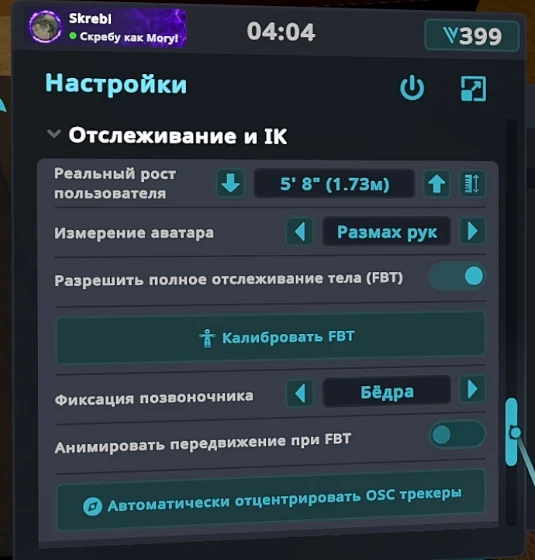
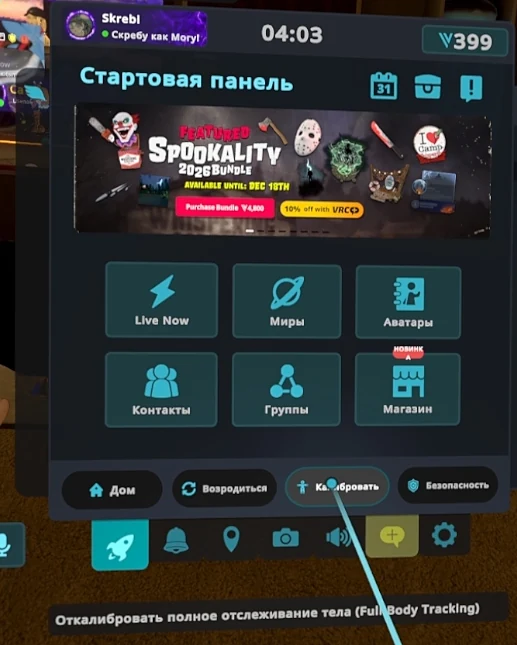
VRChat step: start FBT calibration from the Launch Pad Calibrate button
Claude-Session: https://claude.ai/code/session_01KnBYEkpMzSDj8BN21LnWwG

diff --git a/docs/Slime-VR-setup/index.html b/docs/Slime-VR-setup/index.html
@@ -17,7 +17,7 @@
 <meta name="guide-stats-api" content="https://slimevr-guide-stats.zombatii63.workers.dev">
 <meta name="guide-turnstile-sitekey" content="0x4AAAAAAGBGNd4fstNTYg4G">
 <script>(function(){var K="slimevr-guide-lang";document.addEventListener("click",function(e){var a=e.target.closest&&e.target.closest("[data-setlang]");if(a){try{localStorage.setItem(K,a.getAttribute("data-setlang"));}catch(x){}}});var c=null;try{c=localStorage.getItem(K);}catch(x){}if(c)return;var first=((navigator.languages&&navigator.languages[0])||navigator.language||"").toLowerCase();var want=/^(ru|be|kk)(-|$)/.test(first)?"ru":"en";if(want!=="ru")location.replace("en/"+location.hash);})();</script>
-<script>window.GUIDE_VERSION="83d1faf6ba";(function(){try{fetch("version.json?t="+Date.now(),{cache:"no-store"}).then(function(r){return r.json();}).then(function(j){if(!j||!j.v||j.v===window.GUIDE_VERSION)return;var k="guide-reloaded-"+j.v;try{if(sessionStorage.getItem(k))return;sessionStorage.setItem(k,"1");}catch(e){}fetch(location.pathname,{cache:"reload"}).then(function(){location.reload();},function(){location.reload();});})["catch"](function(){});}catch(e){}})();</script>
+<script>window.GUIDE_VERSION="ff496f2afe";(function(){try{fetch("version.json?t="+Date.now(),{cache:"no-store"}).then(function(r){return r.json();}).then(function(j){if(!j||!j.v||j.v===window.GUIDE_VERSION)return;var k="guide-reloaded-"+j.v;try{if(sessionStorage.getItem(k))return;sessionStorage.setItem(k,"1");}catch(e){}fetch(location.pathname,{cache:"reload"}).then(function(){location.reload();},function(){location.reload();});})["catch"](function(){});}catch(e){}})();</script>
 </head>
 <body>
 <div class="readbar" aria-hidden="true"><span id="readbar"></span></div>
@@ -604,7 +604,7 @@
     <li><span>Не выключая SlimeVR, зайдите в <strong>VRChat</strong>.</span></li>
     <li><span>Откройте большое меню настроек, раздел <strong>«Отслеживание и IK»</strong> (Tracking &amp; IK). Встаньте ровно, смотрите прямо и нажмите кнопку измерения роста: крайнюю справа в строке <strong>«Реальный рост пользователя»</strong> (User Real Height).</span></li>
     <li><span>Там же выключите <strong>«Использовать старую версию IK»</strong> (Use Legacy IK Solving). Ниже, в блоке <strong>«Калибровка и отладка»</strong> (Calibration &amp; Debug), выключите <strong>«Старый метод калибровки»</strong> (Legacy Calibration) и поставьте <strong>«Расстояние калибровки»</strong> (Calibration Range) на <strong>0,20 м</strong>. IK — расчёт положения суставов аватара.</span></li>
-    <li><span>Откройте быстрое меню, нажмите шестерёнку и затем <strong>«Калибровать FBT»</strong> (Calibrate FBT). Встаньте как аватар, смотрите прямо и подтвердите обоими курками на контроллерах.</span></li>
+    <li><span>Откройте быстрое меню и на стартовой панели нажмите <strong>«Калибровать»</strong> (Calibrate) внизу. Встаньте как аватар, смотрите прямо и подтвердите обоими курками на контроллерах.</span></li>
   </ol>
   <div class="reference-block" id="vrchat-screens">
     <h3>Где это в VRChat</h3>
@@ -612,10 +612,10 @@
     <div class="reference-grid vrchat-examples">
       <figure class="reference-shot" data-zoom="Рост и старая версия IK"><img src="img/ru/vrc-height.webp" alt="Меню VRChat «Отслеживание и IK»: строка «Реальный рост пользователя» и переключатель «Использовать старую версию IK»" width="780" height="613" loading="lazy"><figcaption><strong>Рост и старая версия IK.</strong> Кнопка измерения роста — крайняя справа в строке роста. Переключатель старой версии IK — третья строка.</figcaption></figure>
       <figure class="reference-shot" data-zoom="Калибровка и отладка"><img src="img/ru/vrc-calibration.webp" alt="Блок «Калибровка и отладка»: «Старый метод калибровки» и «Расстояние калибровки»" width="757" height="593" loading="lazy"><figcaption><strong>Калибровка и отладка.</strong> «Старый метод калибровки» — первая строка, «Расстояние калибровки» — ползунок ниже.</figcaption></figure>
-      <figure class="reference-shot" data-zoom="Кнопка «Калибровать FBT»"><img src="img/ru/vrc-quick-fbt.webp" alt="Быстрое меню VRChat, вкладка настроек с кнопкой «Калибровать FBT»" width="535" height="560" loading="lazy"><figcaption><strong>Быстрое меню.</strong> Шестерёнка внизу, затем кнопка «Калибровать FBT».</figcaption></figure>
+      <figure class="reference-shot" data-zoom="Кнопка «Калибровать»"><img src="img/ru/vrc-quick-fbt.webp" alt="Стартовая панель быстрого меню VRChat, наведение на кнопку «Калибровать»" width="517" height="645" loading="lazy"><figcaption><strong>Быстрое меню.</strong> Кнопка «Калибровать» внизу стартовой панели запускает калибровку всего тела.</figcaption></figure>
       <figure class="reference-shot" data-zoom="Поза при калибровке"><img src="img/vrc-tpose.webp" alt="Аватар в позе калибровки, трекеры показаны цветными кругами" width="840" height="745" loading="lazy"><figcaption><strong>Поза при калибровке.</strong> Совместите своё тело с аватаром и нажмите оба курка.</figcaption></figure>
     </div>
-    <p class="source-note">Снимки сделаны автором гайда в VRChat (ноябрь 2026). Кнопка «Calibrate FBT» описана в <a href="https://docs.vrchat.com/docs/full-body-tracking#using-full-body-tracking-in-vrchat">документации VRChat</a>.</p>
+    <p class="source-note">Снимки сделаны автором гайда в VRChat (ноябрь 2026). Калибровка всего тела описана в <a href="https://docs.vrchat.com/docs/full-body-tracking#using-full-body-tracking-in-vrchat">документации VRChat</a>.</p>
   </div>
   <div class="ok"><b>Готово</b><p>Трекеры откалиброваны и настроены. Калибровку по осям и температурную больше делать не нужно. Перед каждой игрой выполняйте короткий порядок ниже.</p></div>
   <div class="step-finish"><div><b>Проверьте результат</b><p>После подтверждения аватар повторяет движения корпуса и ног.</p></div><button type="button" class="done-toggle" data-done="s10" aria-pressed="false"><span class="dt-box" aria-hidden="true"></span><span class="dt-label">Шаг выполнен</span></button></div>

diff --git a/docs/Slime-VR-setup/en/index.html b/docs/Slime-VR-setup/en/index.html
@@ -17,7 +17,7 @@
 <meta name="guide-stats-api" content="https://slimevr-guide-stats.zombatii63.workers.dev">
 <meta name="guide-turnstile-sitekey" content="0x4AAAAAAGBGNd4fstNTYg4G">
 <script>(function(){var K="slimevr-guide-lang";document.addEventListener("click",function(e){var a=e.target.closest&&e.target.closest("[data-setlang]");if(a){try{localStorage.setItem(K,a.getAttribute("data-setlang"));}catch(x){}}});var c=null;try{c=localStorage.getItem(K);}catch(x){}if(c)return;var first=((navigator.languages&&navigator.languages[0])||navigator.language||"").toLowerCase();var want=/^(ru|be|kk)(-|$)/.test(first)?"ru":"en";if(want!=="en")location.replace("../"+location.hash);})();</script>
-<script>window.GUIDE_VERSION="83d1faf6ba";(function(){try{fetch("../version.json?t="+Date.now(),{cache:"no-store"}).then(function(r){return r.json();}).then(function(j){if(!j||!j.v||j.v===window.GUIDE_VERSION)return;var k="guide-reloaded-"+j.v;try{if(sessionStorage.getItem(k))return;sessionStorage.setItem(k,"1");}catch(e){}fetch(location.pathname,{cache:"reload"}).then(function(){location.reload();},function(){location.reload();});})["catch"](function(){});}catch(e){}})();</script>
+<script>window.GUIDE_VERSION="ff496f2afe";(function(){try{fetch("../version.json?t="+Date.now(),{cache:"no-store"}).then(function(r){return r.json();}).then(function(j){if(!j||!j.v||j.v===window.GUIDE_VERSION)return;var k="guide-reloaded-"+j.v;try{if(sessionStorage.getItem(k))return;sessionStorage.setItem(k,"1");}catch(e){}fetch(location.pathname,{cache:"reload"}).then(function(){location.reload();},function(){location.reload();});})["catch"](function(){});}catch(e){}})();</script>
 </head>
 <body>
 <div class="readbar" aria-hidden="true"><span id="readbar"></span></div>
@@ -603,7 +603,7 @@
     <li><span>Keep SlimeVR running and launch <strong>VRChat</strong>.</span></li>
     <li><span>Open the main settings menu, <strong>“Tracking &amp; IK”</strong>. Stand straight, look ahead and press the height measurement button: the rightmost one in the <strong>“User Real Height”</strong> row.</span></li>
     <li><span>On the same page turn off <strong>“Use Legacy IK Solving”</strong>. Further down, under <strong>“Calibration &amp; Debug”</strong>, turn off <strong>“Legacy Calibration”</strong> and set <strong>“Calibration Range”</strong> to <strong>0.20 m</strong>. IK means calculating where the avatar's joints are.</span></li>
-    <li><span>Open the quick menu, press the gear icon and then <strong>“Calibrate FBT”</strong> (full-body calibration). Stand like the avatar, look ahead and confirm with both triggers on the controllers.</span></li>
+    <li><span>Open the quick menu and on the Launch Pad press <strong>“Calibrate”</strong> at the bottom (full-body calibration). Stand like the avatar, look ahead and confirm with both triggers on the controllers.</span></li>
   </ol>
   <div class="reference-block" id="vrchat-screens">
     <h3>Where to find it in VRChat</h3>
@@ -611,10 +611,10 @@
     <div class="reference-grid vrchat-examples">
       <figure class="reference-shot" data-zoom="Height and legacy IK"><img src="../img/vrc-height.webp" alt="VRChat Tracking &amp; IK menu: User Real Height row and Use Legacy IK Solving switch" width="774" height="593" loading="lazy"><figcaption><strong>Height and legacy IK.</strong> The height measurement button is the rightmost one in the height row. The legacy IK switch is the third row.</figcaption></figure>
       <figure class="reference-shot" data-zoom="Calibration &amp; Debug"><img src="../img/vrc-calibration.webp" alt="Calibration &amp; Debug block: Legacy Calibration and Calibration Range" width="738" height="572" loading="lazy"><figcaption><strong>Calibration &amp; Debug.</strong> “Legacy Calibration” is the first row, “Calibration Range” is the slider below.</figcaption></figure>
-      <figure class="reference-shot" data-zoom="The Calibrate FBT button"><img src="../img/vrc-quick-fbt.webp" alt="VRChat quick menu settings tab with the Calibrate FBT button" width="492" height="523" loading="lazy"><figcaption><strong>Quick menu.</strong> The gear icon at the bottom, then “Calibrate FBT”.</figcaption></figure>
+      <figure class="reference-shot" data-zoom="The Calibrate button"><img src="../img/vrc-quick-fbt.webp" alt="VRChat quick menu Launch Pad with the pointer on the Calibrate button" width="550" height="675" loading="lazy"><figcaption><strong>Quick menu.</strong> The “Calibrate” button at the bottom of the Launch Pad starts full-body calibration.</figcaption></figure>
       <figure class="reference-shot" data-zoom="Calibration pose"><img src="../img/vrc-tpose.webp" alt="Avatar in the calibration pose, trackers shown as coloured circles" width="840" height="745" loading="lazy"><figcaption><strong>Calibration pose.</strong> Line your body up with the avatar and press both triggers.</figcaption></figure>
     </div>
-    <p class="source-note">Screenshots taken by the guide author in VRChat (November 2026). The “Calibrate FBT” button is described in the <a href="https://docs.vrchat.com/docs/full-body-tracking#using-full-body-tracking-in-vrchat">VRChat documentation</a>.</p>
+    <p class="source-note">Screenshots taken by the guide author in VRChat (November 2026). Full-body calibration is described in the <a href="https://docs.vrchat.com/docs/full-body-tracking#using-full-body-tracking-in-vrchat">VRChat documentation</a>.</p>
   </div>
   <div class="ok"><b>Done</b><p>The trackers are calibrated and set up. You do not need to do the 6-point or temperature calibration again. Before every session, follow the short routine below.</p></div>
   <div class="step-finish"><div><b>Check the result</b><p>After confirming, the avatar follows your body and leg movements.</p></div><button type="button" class="done-toggle" data-done="s10" aria-pressed="false"><span class="dt-box" aria-hidden="true"></span><span class="dt-label">Mark step done</span></button></div>
